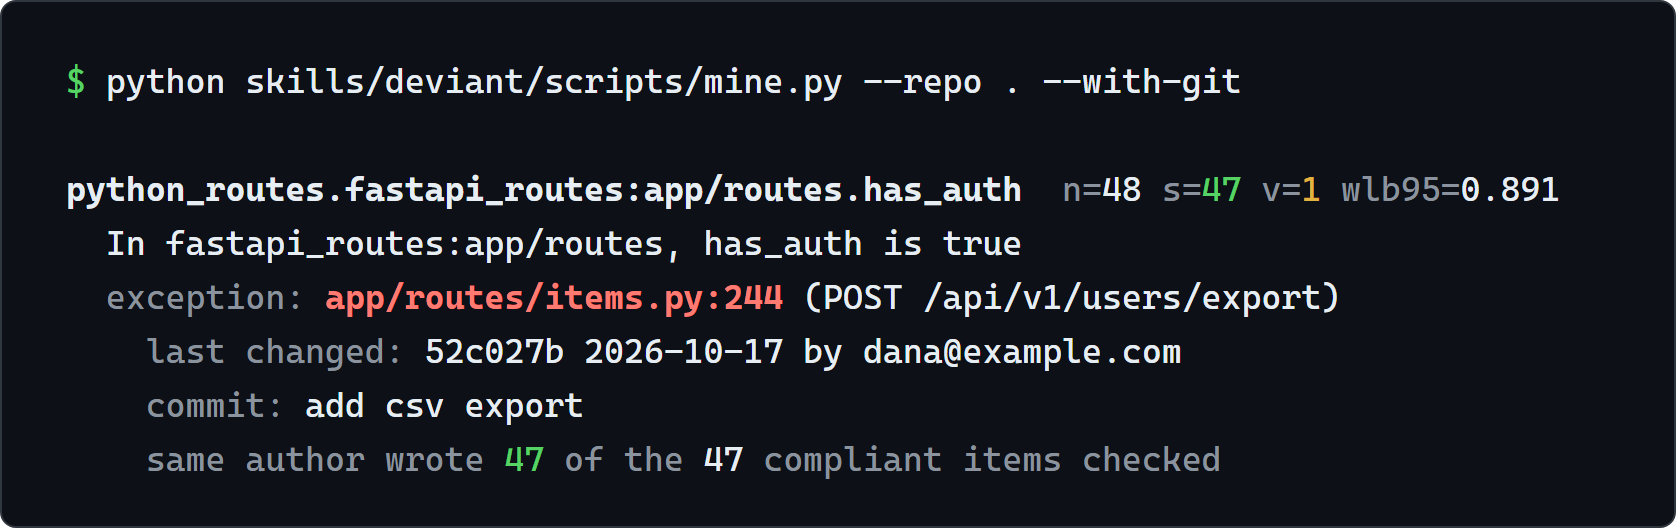
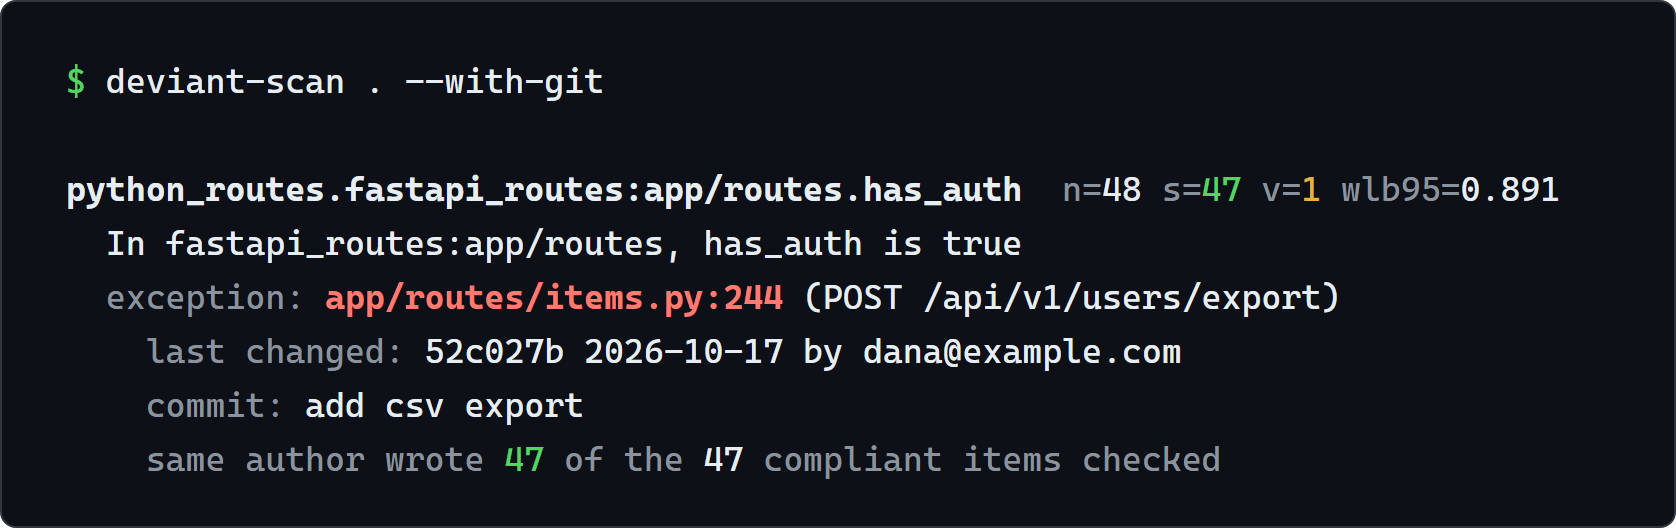
docs: install from PyPI and show the real command
Now that deviant-scan is on PyPI, lead the quick start with pip install and uvx, add a PyPI badge, tick the roadmap, and show the deviant-scan command in the screenshot and the output guide. Fix the output guide, which still named the wrong author and called the judge step planned. Remove the after-release note from the release guide.

Changed region(s): [[0.0621, 0.1212, 0.5895, 0.1818], [0.6205, 0.1212, 0.7446, 0.1818]]

diff --git a/README.md b/README.md
@@ -15,6 +15,7 @@
 </p>
 
 <p align="center">
+  <a href="https://pypi.org/project/deviant-scan/"><img src="https://img.shields.io/pypi/v/deviant-scan" alt="PyPI version"></a>
   <a href="https://github.com/ImalkaPerera/deviant/actions/workflows/ci.yml"><img src="https://github.com/ImalkaPerera/deviant/actions/workflows/ci.yml/badge.svg" alt="CI"></a>
   <img src="https://img.shields.io/badge/python-3.10%20to%203.14-blue" alt="Python 3.10 to 3.14">
   <a href="LICENSE"><img src="https://img.shields.io/badge/license-MIT-green.svg" alt="MIT license"></a>
@@ -65,15 +66,14 @@ person wrote all 47 routes that do check auth, so this looks like a slip, not a 
 
 ## Quick start
 
-Deviant is early, so install from source. You need Python 3.10 or newer and git.
+You need Python 3.10 or newer and git.
 
 ```bash
-git clone https://github.com/ImalkaPerera/deviant.git
-cd deviant
-pip install -e .
-
-python skills/deviant/scripts/mine.py --repo /path/to/your/project --with-git
+pip install deviant-scan
+deviant-scan path/to/your/project --with-git
 ```
+
+To run it once without installing anything, use `uvx deviant-scan path/to/your/project --with-git`.
 
 To have Claude judge each exception, install the plugin in Claude Code and run it on a project:
 
@@ -86,8 +86,8 @@ It labels each exception as a bug, intentional or unsure, with proof. See
 [using Deviant in Claude Code](docs/claude-code-skill.md).
 
 Add `--json` for machine-readable output. Output is coloured in a terminal and plain when piped
-(`--color never` and the `NO_COLOR` variable turn it off). A PyPI release (`uvx deviant-scan .`)
-is planned.
+(`--color never` and the `NO_COLOR` variable turn it off). To work on Deviant itself, see the
+[contributor guide](CONTRIBUTING.md).
 
 ## How it works
 
@@ -148,7 +148,7 @@ The full story is in [tested on real projects](docs/tested-on-real-projects.md).
 - [ ] Saved rules, and a hook that warns an AI agent the moment it breaks one
 - [ ] More checks: Dockerfiles, Flask, Express, Spring, Kubernetes, Terraform
 - [ ] A published benchmark against asking Claude alone
-- [ ] A PyPI release
+- [x] A PyPI release
 
 ## Contribute
 

diff --git a/docs/reading-the-output.md b/docs/reading-the-output.md
@@ -3,10 +3,10 @@
 What a finding looks like, and what each number means.
 
 A FastAPI project with 48 routes that change data. 47 use `Depends(get_current_user)`,
-one does not. Dana wrote the 47. Sam added the last route:
+one does not. Dana wrote all of them, including the last one:
 
 ```text
-$ python skills/deviant/scripts/mine.py --repo . --with-git
+$ deviant-scan . --with-git
 python_routes.fastapi_routes:app/routes.has_auth  n=48 s=47 v=1 wlb95=0.891
   In fastapi_routes:app/routes, has_auth is true
   exception: app/routes/items.py:244 (POST /api/v1/users/export)
@@ -17,9 +17,9 @@ python_routes.fastapi_routes:app/routes.has_auth  n=48 s=47 v=1 wlb95=0.891
 
 `n` is the number of similar items, `s` how many follow the pattern, `v` how many do not,
 and `wlb95` the Wilson lower bound. Routes are compared within their folder, so the rule
-name includes it. The git lines are evidence, not a verdict. Dana wrote all 47 protected routes and then
-added this one without the check, and nothing in the commit message says it is meant to
-be public. If instead the author had written none of the protected routes, the count would
+name includes it. The git lines are evidence, not a verdict. Dana wrote all 47 protected routes
+and then added this one without the check, and nothing in the commit message says it is meant
+to be public. If instead the author had written none of the protected routes, the count would
 be 0 and would say nothing about whether they knew the convention.
 
 With `--json`, each exception carries the same evidence for tools and the judge step:
@@ -48,5 +48,5 @@ the line. `compliant_checked` is a sample of at most 50 compliant items, to keep
 `author_followed_rule_elsewhere` is how many of those the same author wrote.
 
 An exception is a lead, not a verdict. A login or health-check route is supposed to be
-public. Deciding which exceptions are real bugs is the job of the planned judge step,
-or yours today.
+public. Deciding which exceptions are real bugs is the job of the
+[Claude Code skill](claude-code-skill.md), or yours.

diff --git a/RELEASING.md b/RELEASING.md
@@ -65,8 +65,3 @@ If the workflow fails before publishing, fix the problem, delete the tag
 (`git push --delete origin v0.1.0` and `git tag -d v0.1.0`) and tag again. A version that
 reached PyPI can never be uploaded again, even if you delete it there, so bump the version
 instead.
-
-## After the first release
-
-Tick "A PyPI release" in the README roadmap, and replace the "install from source" instructions
-in the README with `pip install deviant-scan` and `uvx deviant-scan`.
